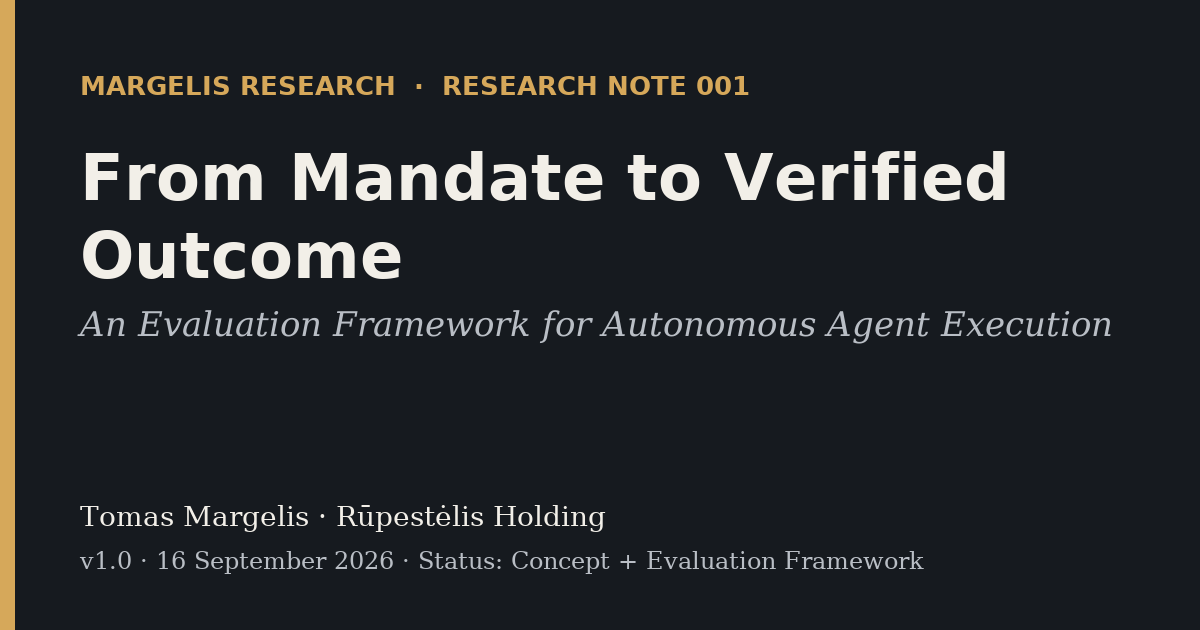
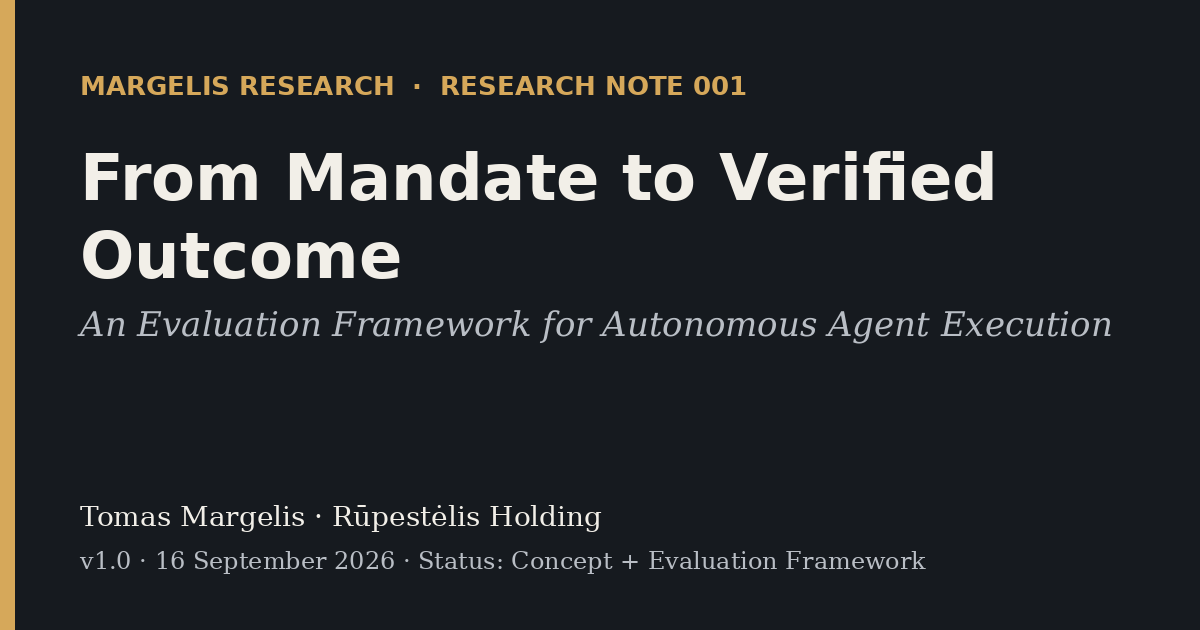
Grant CC-BY-4.0 for Research Note 001 text
Record the authorized license grant for Research Note 001 and regenerate
the files that derive from it.

Authorized by Tomas Margelis on 2026-09-17. Scope is the note text only:
the Markdown and PDF files of Research Note 001. It does not extend to
production code, schemas, benchmark specifications, internal datasets,
private benchmarks or generated web pages.

Generated changes:
  LICENSE                            note text now CC-BY-4.0, all else reserved
  CITATION.cff                       license: CC-BY-4.0
  research/001/note.yaml             grant record
  site/research/001/index.html       license row and JSON-LD
  site/research/001/og-001-v1.0.png  regenerated card

The immutable release research-note-001-v1.0 is untouched: the Markdown,
PDF and metadata.json digests in SHA256SUMS are byte-identical to the
released ones. verify --rebuild --online reports 28 passed, 0 failed.

Claude-Session: https://claude.ai/code/session_01Au1nLDfLgPH3vjMcFbmaEE

diff --git a/site/research/001/index.html b/site/research/001/index.html
@@ -102,7 +102,8 @@
   "https://docs.cedarpolicy.com/",
   "https://arxiv.org/abs/2403.04651"
  ],
- "isBasedOn": "https://github.com/M12-pixel1/margelis-research"
+ "isBasedOn": "https://github.com/M12-pixel1/margelis-research",
+ "license": "https://spdx.org/licenses/CC-BY-4.0.html"
 }
 </script>
 <style>
@@ -192,7 +193,7 @@ footer .in{max-width:48rem;margin:0 auto;padding:18px 16px 40px}
 <dt>Published</dt><dd><time datetime="2026-09-16">16 September 2026</time></dd>
 <dt>Series</dt><dd>Margelis Research · Research Note 001</dd>
 <dt>DOI</dt><dd>Pending: the archival (Zenodo) record has not been published yet.</dd>
-<dt>License</dt><dd>Not yet granted: a license decision is pending, so no reuse rights are granted at this time.</dd>
+<dt>License</dt><dd><a href="https://spdx.org/licenses/CC-BY-4.0.html">CC-BY-4.0</a> (applies to the note text only)</dd>
 <dt>Source</dt><dd><a href="https://github.com/M12-pixel1/margelis-research">M12-pixel1/margelis-research</a> · <a href="https://github.com/M12-pixel1/margelis-research/releases/tag/research-note-001-v1.0">release research-note-001-v1.0</a></dd>
 </dl>
 <p class="actions">
